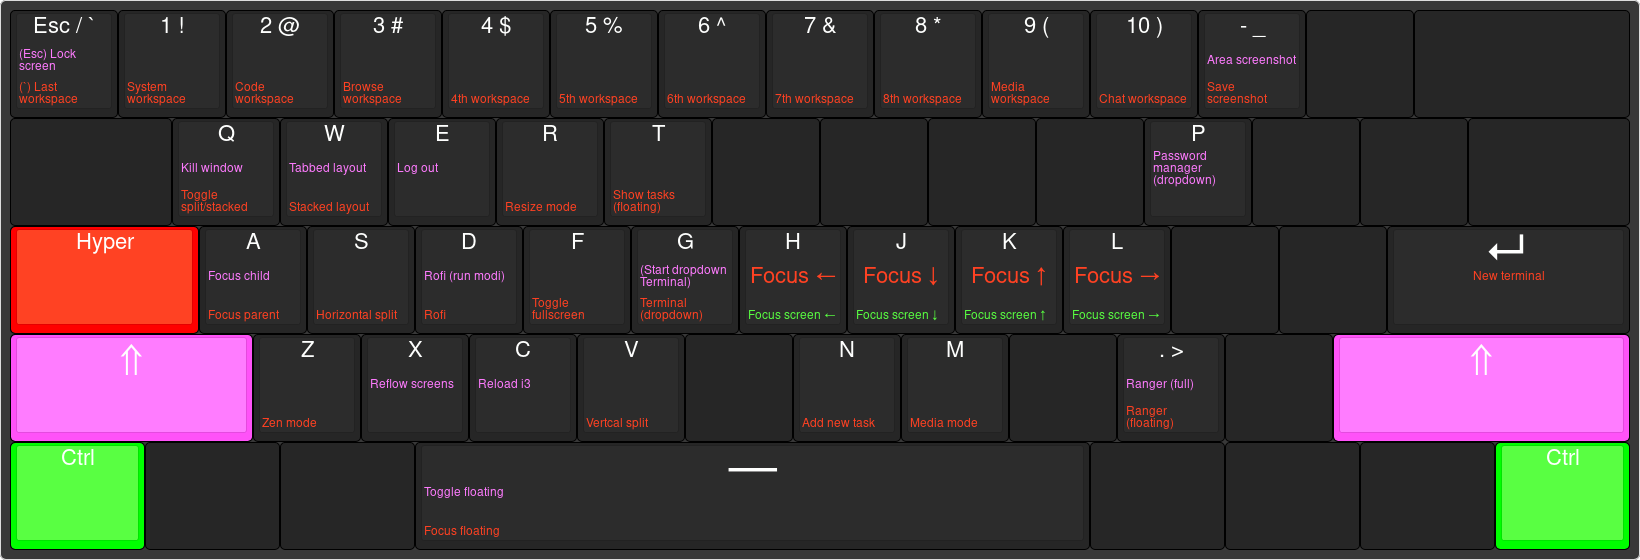
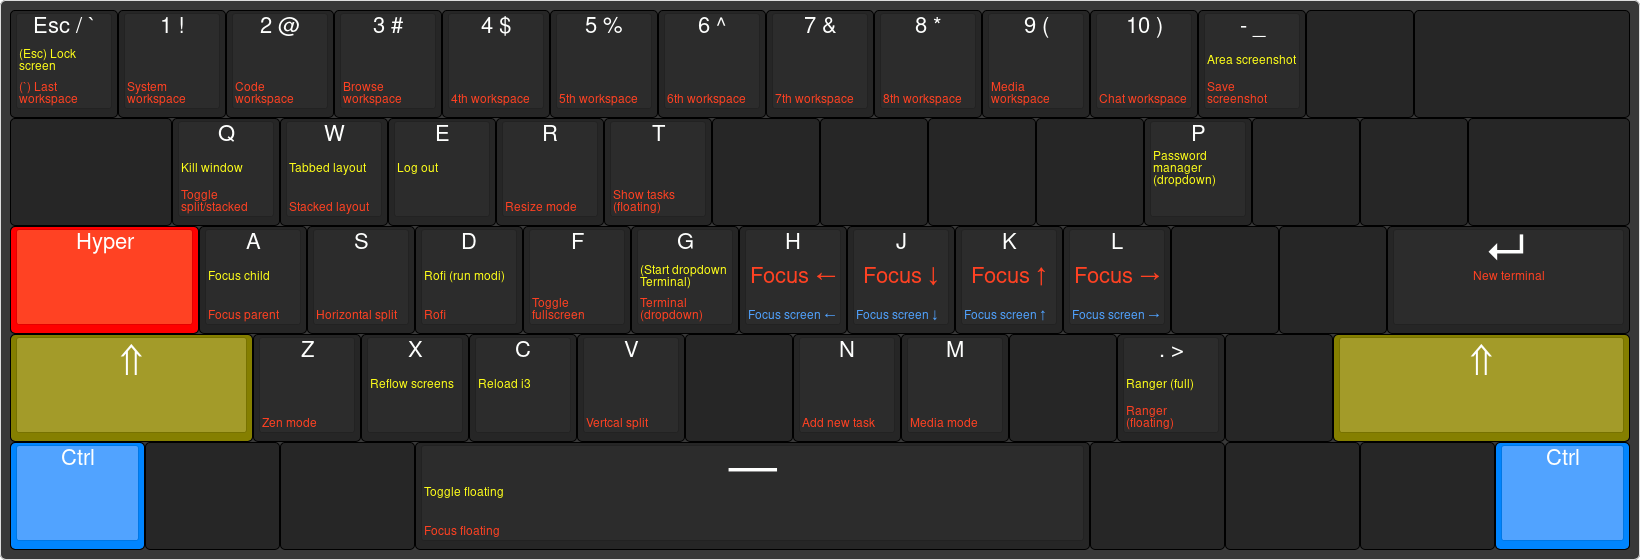
Keyboard: Use better highlight colors
- Stop using green/red as that is not very nice to most colorblind
  people (I guess yellow still isn't very nice, but that's less common
  at least).
  - Yellow is less redical than magenta.
  - Blue hue looks better than the screamy green color used before.

diff --git a/keyboard/README.md b/keyboard/README.md
@@ -15,6 +15,5 @@ When pressing Hyper, the following shortcuts become available.
 | Color   | Modifiers                                         |
 |---------|---------------------------------------------------|
 | Red     | <kbd>Hyper</kbd>                                  |
-| Magenta | <kbd>Hyper</kbd> <kbd>Shift</kbd>                 |
-| Green   | <kbd>Hyper</kbd> <kbd>Ctrl</kbd>                  |
-| Teal    | <kbd>Hyper</kbd> <kbd>Ctrl</kbd> <kbd>Shift</kbd> |
+| Yellow  | <kbd>Hyper</kbd> <kbd>Shift</kbd>                 |
+| Blue    | <kbd>Hyper</kbd> <kbd>Ctrl</kbd>                  |
